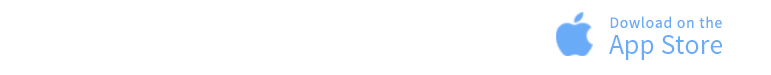
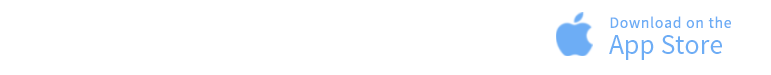
bug

Changed region(s): [[0.8093, 0.2133, 0.965, 0.3733]]

diff --git a/src/components/iOS/PageAPPStore.vue b/src/components/iOS/PageAPPStore.vue
@@ -25,7 +25,7 @@ export default {
 
 <style lang="scss" scoped>
   .bottom-btn {
-    width: 390px;
+    width: 388px;
     height: 127px;
     background: url(/static/img/ios/bottom-btn.png) no-repeat;
     display: block;
